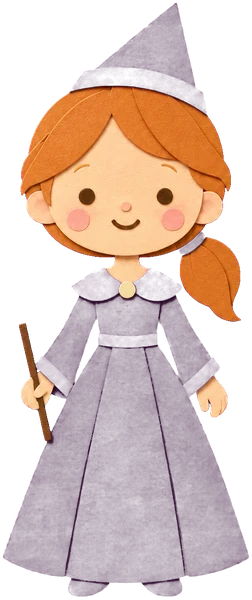
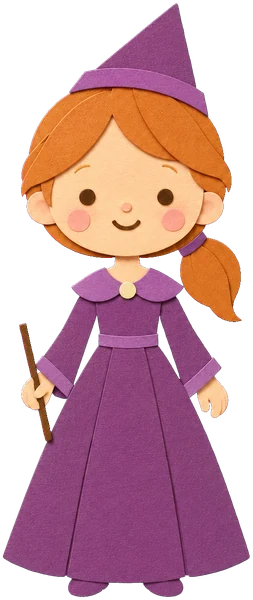
잠자는 숲속의 공주: 화려하게 다시 그리기 그림 끼우기(배경 v2 6장·백 년 뒤 v3·레이어 소품 13장) — 잔치 깃발 줄, 홀·예배당 샹들리에·촛대 깜빡임, 선물 뒤 여섯 색 별 아치, 성 밖 장미 덤불·가시 덩굴(덤불과 함께 자람), 9장 백 년 뒤 크로스페이드+가시 드레이프·버섯, 부엌 냄비 걸이·빵 바구니·거미줄, 깨어남 별 폭발+거미줄 걷힘; 식탁 윗선을 새 배경에 맞춤(홀 258·예배당 252). 보라 요정 그림이 반투명하던 것을 테두리 마젠타만 지워 다시 처리(post_flood --sat)
Claude-Session: https://claude.ai/code/session_015D7fGjm4nVvpfW8sbSdtTy

diff --git a/tales/sleeping_beauty/sleeping_beauty.js b/tales/sleeping_beauty/sleeping_beauty.js
@@ -16,6 +16,8 @@
     sb_grandpa_point: .70, sb_maid_stand: .44, sb_maid_sleep: .46, sb_guard_a_stand: .46, sb_guard_a_sleep: .46, sb_guard_b_stand: .46, sb_guard_b_sleep: .46, sb_cook_stand: .58, sb_cook_sleep: .58, sb_kid_stand: .46, sb_kid_sleep: .48,
     sb_dog_sleep: 1.6, sb_dog_wag: 1.35, sb_bird_sleep: 1.2,
     sb_prop_cradle: 1.25, sb_prop_plate: 2.6, sb_prop_door_closed: .52, sb_prop_door_open: .52, sb_prop_curtain: .75, sb_prop_wheel: 1.15, sb_prop_thread_short: .22, sb_prop_thread_mid: .13, sb_prop_thread_long: .09,
+    sb_layer_chandelier: .9733, sb_layer_flower_garland: 2.8302, sb_layer_bunting: 4.918, sb_layer_candle_stand: .4117, sb_layer_vase_roses: .8667, sb_layer_rose_bush: 1.8109, sb_layer_mushrooms: .89,
+    sb_layer_cobweb: 1.0317, sb_layer_pot_rack: 2.1077, sb_layer_bread_basket: 1.0633, sb_layer_wake_burst: .9967, sb_layer_thorn_vine: .3483, sb_layer_thorn_top: 2.267,
     sb_prop_bed: 1.45, sb_prop_candle_lit: .35, sb_prop_candle_out: .33, sb_prop_bush_closed: 1.75, sb_prop_bush_open: 1.75, sb_prop_tree_small: .9, sb_prop_tree_big: .8, sb_prop_table: 2.1, sb_prop_shelf: 3.0, sb_prop_bell: .8,
   };
   FC.forEach(c => { ASP[`sb_fairy_${c}_stand`] = .46; ASP[`sb_fairy_${c}_wand`] = .60; });
@@ -30,6 +32,9 @@
     sb_dog_sleep: 56, sb_dog_wag: 72, sb_bird_sleep: 28,
     sb_prop_cradle: 150, sb_prop_plate: 26, sb_prop_door_closed: 300, sb_prop_door_open: 300, sb_prop_curtain: 330, sb_prop_wheel: 150,
     sb_prop_thread_short: 70, sb_prop_thread_mid: 120, sb_prop_thread_long: 176, sb_prop_bed: 240, sb_prop_candle_lit: 90, sb_prop_candle_out: 90,
+    /* 레이어 소품(VISUAL_PLAN §5): 배경을 꾸미는 종이 조각. 누름을 받지 않는다 */
+    sb_layer_chandelier: 150, sb_layer_flower_garland: 70, sb_layer_bunting: 70, sb_layer_candle_stand: 260, sb_layer_vase_roses: 120, sb_layer_rose_bush: 130, sb_layer_mushrooms: 60,
+    sb_layer_cobweb: 120, sb_layer_pot_rack: 110, sb_layer_bread_basket: 90, sb_layer_wake_burst: 300, sb_layer_thorn_vine: 320, sb_layer_thorn_top: 90,
     sb_prop_bush_closed: 300, sb_prop_bush_open: 300, sb_prop_tree_small: 110, sb_prop_tree_big: 300, sb_prop_table: 110, sb_prop_shelf: 60, sb_prop_bell: 70,
   };
   FC.forEach(c => { HT[`sb_fairy_${c}_stand`] = 205; HT[`sb_fairy_${c}_wand`] = 215; });
@@ -37,10 +42,10 @@
   /* 그림이 보는 쪽(SPEC §2-3) — 앞모습은 'front'(뒤집지 않음) */
   const NAT = { sb_pr_climb: 'right', sb_pr_reach: 'right', sb_pr_lie: 'left', sb_young_peek: 'left', sb_old_stand: 'left', sb_old_sulk: 'left',
     sb_granny_spin: 'left', sb_granny_startle: 'left', sb_grandpa_point: 'right', sb_prince_tiptoe: 'right', sb_prince_kneel: 'left',
-    sb_dog_sleep: 'left', sb_dog_wag: 'left', sb_bird_sleep: 'left' };
+    sb_dog_sleep: 'left', sb_dog_wag: 'left', sb_bird_sleep: 'left', sb_layer_cobweb: 'left' };
   const FL = 528;                       // 바닥(발끝 y)
-  const TABLE_Y = 207;                  // 2·3·11장 식탁 윗선(배경 그림 38% 높이). 그림이 오면 ±10 맞춘다
-  const BGS = ['sb_bg_room', 'sb_bg_hall', 'sb_bg_stairs', 'sb_bg_tower', 'sb_bg_bedroom', 'sb_bg_outside', 'sb_bg_kitchen', 'sb_bg_chapel'];
+  let TABLE_Y = 207;                    // 2·3·11장 식탁 윗선. 배경마다 잰 값으로 dress() 가 바꾼다(hall_v2 260, chapel_v2 254 — 접시는 띠 윗선에 얹힌다)
+  const BGS = ['sb_bg_room_v2', 'sb_bg_hall_v2', 'sb_bg_stairs', 'sb_bg_tower', 'sb_bg_bedroom_v2', 'sb_bg_outside_v2', 'sb_bg_kitchen_v2', 'sb_bg_chapel_v2', 'sb_bg_outside_v3'];   // outside_v3: 9장 백 년 뒤 크로스페이드(같은 구도)
   const src = k => AS + k + '.webp';    // 배경·스프라이트 모두 파일 이름 전체(sb_…)로 부른다
   const BGBOX = { x: -40, y: -24, w: 1080, h: 1080 * 992 / 1760 };
   const hOf = f => HT[f] || 200;
@@ -171,14 +176,14 @@
 
   /* 배경 자리표시: 종이 한 장 + 요소 2~3개 + 장면 이름표 */
   const BGPH = {
-    sb_bg_room:    { sky: CREAM, gnd: GOLD, name: '아기 방', shapes: () => [['path', { d: 'M120 330 V190 A70 70 0 0 1 260 190 V330Z', fill: '#B9D3E4' }], ['rect', { x: 780, y: 20, width: 90, height: 190, fill: '#A93B32' }]] },
-    sb_bg_hall:    { sky: CREAM, gnd: BARK, name: '잔치 홀', shapes: () => [['rect', { x: -40, y: 207, width: 1080, height: 55, fill: BARK }], ['rect', { x: -40, y: 207, width: 1080, height: 10, fill: GOLD }]] },
+    sb_bg_room_v2: { sky: CREAM, gnd: GOLD, name: '아기 방', shapes: () => [['path', { d: 'M120 330 V190 A70 70 0 0 1 260 190 V330Z', fill: '#B9D3E4' }], ['rect', { x: 780, y: 20, width: 90, height: 190, fill: '#A93B32' }]] },
+    sb_bg_hall_v2: { sky: CREAM, gnd: BARK, name: '잔치 홀', shapes: () => [['rect', { x: -40, y: 207, width: 1080, height: 55, fill: BARK }], ['rect', { x: -40, y: 207, width: 1080, height: 10, fill: GOLD }]] },
     sb_bg_stairs:  { sky: '#B8AFA3', gnd: '#8f877c', name: '탑 계단', shapes: () => [0, 1, 2, 3, 4, 5, 6, 7, 8].map(i => ['rect', { x: 200 + i * 80, y: 470 - i * 48, width: 90, height: 24, fill: '#6f675d' }]) },
     sb_bg_tower:   { sky: '#B8AFA3', gnd: GOLD, name: '탑 꼭대기 방', shapes: () => [['path', { d: 'M440 300 V150 A60 60 0 0 1 560 150 V300Z', fill: '#B9D3E4' }]] },
-    sb_bg_bedroom: { sky: CREAM, gnd: GOLD, name: '공주 침실', shapes: () => [['path', { d: 'M780 330 V190 A70 70 0 0 1 920 190 V330Z', fill: '#B9D3E4' }]] },
-    sb_bg_outside: { sky: '#EEF3F7', gnd: '#9DBB7A', name: '성 밖 (덤불 자리 비움)', shapes: () => [['ellipse', { cx: 250, cy: 430, rx: 340, ry: 130, fill: '#3F6B4F' }], ['ellipse', { cx: 800, cy: 450, rx: 320, ry: 130, fill: '#3F6B4F' }], ['rect', { x: 440, y: 170, width: 120, height: 200, fill: CREAM }], ['rect', { x: 400, y: 120, width: 40, height: 250, fill: CREAM }], ['rect', { x: 560, y: 120, width: 40, height: 250, fill: CREAM }], ['rect', { x: 380, y: 480, width: 240, height: 120, fill: '#D9C79C' }]] },
-    sb_bg_kitchen: { sky: CREAM, gnd: '#B8AFA3', name: '부엌', shapes: () => [['path', { d: 'M60 420 V220 A110 110 0 0 1 280 220 V420Z', fill: BARK }], ['ellipse', { cx: 170, cy: 370, rx: 60, ry: 36, fill: '#E8703A' }]] },
-    sb_bg_chapel:  { sky: CREAM, gnd: '#B8AFA3', name: '예배당', shapes: () => [['path', { d: 'M420 120 V60 A80 80 0 0 1 580 60 V120Z', fill: '#B9D3E4' }], ['rect', { x: 440, y: 20, width: 28, height: 90, fill: '#A93B32' }], ['rect', { x: 468, y: 20, width: 28, height: 90, fill: GOLD }], ['rect', { x: 496, y: 20, width: 28, height: 90, fill: '#3F6B4F' }], ['rect', { x: 524, y: 20, width: 28, height: 90, fill: '#3E7CB1' }], ['rect', { x: -40, y: 207, width: 1080, height: 55, fill: BARK }], ['rect', { x: -40, y: 207, width: 1080, height: 10, fill: GOLD }]] },
+    sb_bg_bedroom_v2: { sky: CREAM, gnd: GOLD, name: '공주 침실', shapes: () => [['path', { d: 'M780 330 V190 A70 70 0 0 1 920 190 V330Z', fill: '#B9D3E4' }]] },
+    sb_bg_outside_v2: { sky: '#EEF3F7', gnd: '#9DBB7A', name: '성 밖 (덤불 자리 비움)', shapes: () => [['ellipse', { cx: 250, cy: 430, rx: 340, ry: 130, fill: '#3F6B4F' }], ['ellipse', { cx: 800, cy: 450, rx: 320, ry: 130, fill: '#3F6B4F' }], ['rect', { x: 440, y: 170, width: 120, height: 200, fill: CREAM }], ['rect', { x: 400, y: 120, width: 40, height: 250, fill: CREAM }], ['rect', { x: 560, y: 120, width: 40, height: 250, fill: CREAM }], ['rect', { x: 380, y: 480, width: 240, height: 120, fill: '#D9C79C' }]] },
+    sb_bg_kitchen_v2: { sky: CREAM, gnd: '#B8AFA3', name: '부엌', shapes: () => [['path', { d: 'M60 420 V220 A110 110 0 0 1 280 220 V420Z', fill: BARK }], ['ellipse', { cx: 170, cy: 370, rx: 60, ry: 36, fill: '#E8703A' }]] },
+    sb_bg_chapel_v2: { sky: CREAM, gnd: '#B8AFA3', name: '예배당', shapes: () => [['path', { d: 'M420 120 V60 A80 80 0 0 1 580 60 V120Z', fill: '#B9D3E4' }], ['rect', { x: 440, y: 20, width: 28, height: 90, fill: '#A93B32' }], ['rect', { x: 468, y: 20, width: 28, height: 90, fill: GOLD }], ['rect', { x: 496, y: 20, width: 28, height: 90, fill: '#3F6B4F' }], ['rect', { x: 524, y: 20, width: 28, height: 90, fill: '#3E7CB1' }], ['rect', { x: -40, y: 207, width: 1080, height: 55, fill: BARK }], ['rect', { x: -40, y: 207, width: 1080, height: 10, fill: GOLD }]] },
   };
   function bgImage(T, key) {
     if (bgOK[key]) return T.el('image', { href: src(key), x: BGBOX.x, y: BGBOX.y, width: BGBOX.w, height: BGBOX.h, preserveAspectRatio: 'none' }, T.bg);
@@ -306,7 +311,7 @@
     const GAP = 700, SCENE_END = 1500,   /* 2026-10-22 대사 뒤·장면 끝 쉼을 줄임(전환이 느리다는 지적) */ WALK = 3000;
     const say = async text => { await T.say(text); await sleep(GAP); };
     const vo = k => { const u = Narrator.voiceLine(k); return u && AudioFX.voice(u); };   // 말풍선 없는 소리(count1~7)
-    const scene = key => { T.clear(); bgImage(T, key); camSnap(500, 280, 1); };
+    const scene = key => { setBg(key); camSnap(500, 280, 1); };
     const P = T.viewWidth() < 990;                 // 세로 화면
     const X = (l, p) => (P ? p : l);
     const follow = (x, ms = 700) => (P ? T.camTo(x, 280, 1, ms) : Promise.resolve());
@@ -421,14 +426,38 @@
     const tree   = mk(T, { small: h('sb_prop_tree_small'), big: h('sb_prop_tree_big') });
     const table  = prop(T, 'sb_prop_table', HT.sb_prop_table), shelf = prop(T, 'sb_prop_shelf', HT.sb_prop_shelf), bell = prop(T, 'sb_prop_bell', HT.sb_prop_bell);
     const ALL = [pr, baby, king, queen, ...fairies, young, old, granny, prince, grandpa, maid, guardA, guardB, cook, kid, dog, bird, cradle, ...plates, door, curtain, ...gifts, wheel, ...Object.values(threads), bed, candle, bush, tree, table, shelf, bell];
+    /* 레이어 소품(VISUAL_PLAN §4): 중간 층은 world 맨 뒤(배우보다 먼저), 앞 가림 층은 fx(배우 위). 모두 누름 없음 */
+    const L = Object.fromEntries(['chandelier', 'chandelier2', 'bunting', 'bunting2', 'candle_stand', 'candle_stand2', 'vase_roses', 'rose_bush', 'rose_bush2', 'mushrooms', 'cobweb', 'cobweb2', 'pot_rack', 'bread_basket', 'wake_burst', 'thorn_vine', 'thorn_top', 'thorn_top2']
+      .map(k => [k, prop(T, 'sb_layer_' + k.replace(/2$/, ''), HT['sb_layer_' + k.replace(/2$/, '')])]));
+    ALL.push(...Object.values(L));
     ALL.forEach(hide);
+    const mid = (a, x, y, o) => { put(T, a, x, y, o); T.world.insertBefore(a.pos, T.world.firstChild); return a; };
+    const front = (a, x, y, o) => { put(T, a, x, y, o); T.fx.appendChild(a.pos); return a; };
+    const flicker = a => { a.body.animate([{ opacity: 1 }, { opacity: .85 }, { opacity: 1 }], { duration: 1600, iterations: Infinity }); return a; };
+    const sway = a => { a.body.animate([{ rotate: '-1.5deg' }, { rotate: '1.5deg' }, { rotate: '-1.5deg' }], { duration: 4000, iterations: Infinity, easing: 'ease-in-out' }); return a; };
+    function dress(key) {
+      if (key === 'sb_bg_room_v2') mid(L.vase_roses, X(880, 880), FL);
+      if (key === 'sb_bg_hall_v2') TABLE_Y = 258;
+      if (key === 'sb_bg_chapel_v2') TABLE_Y = 252;
+      if (key === 'sb_bg_hall_v2') { flicker(mid(L.chandelier, X(300, 380), 150)); flicker(mid(L.chandelier2, X(700, 620), 150)); }
+      if (key === 'sb_bg_outside_v2') { mid(L.rose_bush, X(120, 330), FL - 10); front(L.thorn_vine, X(40, 300), 585); }
+      if (key === 'sb_bg_kitchen_v2') {
+        mid(L.pot_rack, X(500, 250), 120);
+        front(L.bread_basket, X(985, 985), 585); front(L.cobweb, 30, 110); front(L.cobweb2, 970, 110, { to: 'right' });
+      }
+      if (key === 'sb_bg_chapel_v2') {
+        flicker(mid(L.chandelier, X(250, 330), 150)); flicker(mid(L.chandelier2, X(750, 670), 150));
+        flicker(mid(L.candle_stand, X(60, 330), FL)); flicker(mid(L.candle_stand2, X(940, 670), FL));
+      }
+    }
+    const setBg = key => { T.clear(); bgImage(T, key); dress(key); };
     T.director({ cast: { king, queen, princess: pr, fred: fairies[0], forange: fairies[1], fyellow: fairies[2], fgreen: fairies[3], fblue: fairies[4], fpurple: fairies[5], young, old, granny, prince, grandpa },
                  noFace: ['king', 'queen', 'princess', 'fred', 'forange', 'fyellow', 'fgreen', 'fblue', 'fpurple', 'young', 'old', 'granny', 'prince', 'grandpa'] });
     const PEEK_DX = -(curtain.w / 2 + 25);
     const hasFace = a => a;   // (자리 맞추기용 훅 — 지금은 쓰지 않음)
 
     /* ===== 1. 기다리던 아기 (톡 1: 요람) ===== */
-    scene('sb_bg_room');
+    scene('sb_bg_room_v2');
     put(T, king, X(360, 395), FL, { look: 'joy' });
     put(T, queen, X(640, 605), FL, { look: 'joy' });
     put(T, cradle, 500, FL + 4);
@@ -438,7 +467,9 @@
     await T.curtain(true);
     await say(S.L1);
     await sleep(300);
-    const l2 = say(S.L2); king.hop(8, 300); await l2;
+    const l2 = say(S.L2); king.hop(8, 300);
+    [[L.bunting, X(250, 420)], [L.bunting2, X(750, 600)]].forEach(([g, x]) => { front(g, x, 70); sway(g); g.pos.animate([{ opacity: 0, translate: '0 -40px' }, { opacity: 1, translate: '0 0' }], 600); });
+    await l2;
     bob(cradle.pos);
     await T.tap(cradleHit);
     cradleHit.remove();
@@ -453,7 +484,7 @@
     /* ===== 2. 접시 일곱, 요정 여덟 (배움 놀이 1: 많고 적음) ===== */
     const doorX = X(970, SX(7) + 160 * RS - 60);
     await T.sceneCard(tr('접시 일곱, 요정 여덟'), () => {
-      scene('sb_bg_hall');
+      scene('sb_bg_hall_v2');
       for (let i = 0; i < 7; i++) put(T, plates[i], SX(i), TABLE_Y + 2, { s: RS });
       for (let i = 0; i < 6; i++) put(T, fairies[i], SX(i), FL, { look: 'stand', s: RS });
       put(T, young, SX(6), FL, { look: 'stand', s: RS });
@@ -461,7 +492,7 @@
       if (P) camSnap(500, 280, 1);
     }, young.pos);
     await say(S.L4);
-    door.look('open'); sfx(T, 'door', .5);
+    door.look('open'); sfx(T, 'door', .5); L.chandelier2.wiggle(2, 600);
     put(T, old, X(1080, doorX + 20), FL, { look: 'stand', to: 'left', s: RS });
     const entering = walk(T, old, SX(7), FL, WALK, { h: 3 * RS, hd: 560 });
     await Promise.all([entering, say(S.L5)]);
@@ -497,14 +528,14 @@
     rowPlates.remove(); rowFairies.remove();
     const l6 = say(S.L6);
     glow(old, 2000);
-    [...plates.slice(0, 7), ...fairies, young].forEach(a => { a.pos.style.transition = 'opacity .4s'; a.pos.style.opacity = .45; });
+    [...plates.slice(0, 7), ...fairies, young, L.chandelier, L.chandelier2].forEach(a => { a.pos.style.transition = 'opacity .4s'; a.pos.style.opacity = .45; });
     await l6;
-    [...plates.slice(0, 7), ...fairies, young].forEach(a => { a.pos.style.transition = ''; a.pos.style.opacity = ''; });
+    [...plates.slice(0, 7), ...fairies, young, L.chandelier, L.chandelier2].forEach(a => { a.pos.style.transition = ''; a.pos.style.opacity = ''; });
     await sleep(SCENE_END);
 
     /* ===== 3. 잊힌 요정 ===== */
     await T.sceneCard(tr('잊힌 요정'), () => {
-      scene('sb_bg_hall');
+      scene('sb_bg_hall_v2');
       for (let i = 0; i < 7; i++) put(T, plates[i], SLOT(i), TABLE_Y + 2);
       put(T, queen, X(300, 430), FL, { look: 'surprise', to: 'right' });
       put(T, king, X(420, 510), FL, { look: 'surprise', to: 'right' });
@@ -526,7 +557,7 @@
 
     /* ===== 4. 여섯 가지 선물 ===== */
     await T.sceneCard(tr('여섯 가지 선물'), () => {
-      scene('sb_bg_room');
+      scene('sb_bg_room_v2');
       put(T, cradle, 500, FL + 4);
       put(T, baby, cradle.x + CRADLE_BABY[0], cradle.y + CRADLE_BABY[1], { look: 'sleep' });
       put(T, king, X(720, 660), FL, { look: 'joy' });
@@ -548,12 +579,17 @@
       f.look('stand');
       await f.move(X(50 + 70 * i, -200), FL, 900, 'ease-out');
     }
+    for (let i = 0; i < 6; i++) {      // 여섯 색 별 아치(요람 위, 천천히 깜빡)
+      const t = i / 5, x = 380 + 240 * t, y = 230 - 40 * Math.sin(Math.PI * t), r = 11;
+      const st = T.el('path', { d: `M0 ${-r} L${r * .3} ${-r * .3} L${r} 0 L${r * .3} ${r * .3} L0 ${r} L${-r * .3} ${r * .3} L${-r} 0 L${-r * .3} ${-r * .3} Z`, fill: COLOR[i], transform: `translate(${x},${y})`, filter: 'url(#pp)' }, T.fx);
+      st.animate([{ opacity: 0 }, { opacity: 1 }], { duration: 400, delay: i * 120, fill: 'backwards' }).finished.then(() => st.animate([{ opacity: 1 }, { opacity: .45 }, { opacity: 1 }], { duration: 1800, iterations: Infinity }), () => {});
+    }
     const l17 = say(S.L17); baby.hop(3, 500); await sleep(550); baby.hop(3, 500); await l17;
     await sleep(SCENE_END);
 
     /* ===== 5. 백 년 잠 ===== */
     await T.sceneCard(tr('백 년 잠'), () => {
-      scene('sb_bg_room');
+      scene('sb_bg_room_v2');
       put(T, wheel, X(150, 330), FL);
       put(T, cradle, 500, FL + 4);
       put(T, baby, cradle.x + CRADLE_BABY[0], cradle.y + CRADLE_BABY[1], { look: 'sleep' });
@@ -600,7 +636,7 @@
     const TY = FL - 150;
     const order = ['short', 'mid', 'long'].sort(() => Math.random() - .5);
     const towerSet = () => {
-      T.clear(); bgImage(T, 'sb_bg_tower'); camSnap(X(500, 520), 280, 1);
+      setBg('sb_bg_tower'); camSnap(X(500, 520), 280, 1);
       put(T, granny, X(640, 640), FL, { look: 'spin', to: 'left' });
       put(T, wheel, X(540, 540), FL);
       const TX = [wheel.x - 52, wheel.x, wheel.x + 52];
@@ -653,7 +689,7 @@
     await Promise.all([walk(T, king, X(240, 420), FL, 1400, { h: 6, hd: 320, vol: .35 }), walk(T, queen, X(140, 330), FL, 1400, { h: 6, hd: 320, snd: null })]);
     await sleep(300);
     await veil(T, () => {
-      T.clear(); bgImage(T, 'sb_bg_bedroom'); camSnap(500, 280, 1);
+      setBg('sb_bg_bedroom_v2'); camSnap(500, 280, 1);
       put(T, candle, X(240, 380), FL, { look: 'lit' });
       put(T, bed, 500, FL + 6);
       put(T, pr, bed.x - 8, bed.y + BED_TOP, { look: 'lie', to: 'left' });
@@ -667,7 +703,7 @@
     /* ===== 8. 모두 잠들어요 ===== */
     const sleepers = [[dog, X(590, 560), 'wag'], [maid, X(720, 640), 'stand'], [guardA, X(790, 720), 'stand'], [cook, X(860, 800), 'stand'], [kid, X(920, 870), 'stand'], [guardB, X(980, 940), 'stand']];
     await T.sceneCard(tr('모두 잠들어요'), () => {
-      scene('sb_bg_bedroom');
+      scene('sb_bg_bedroom_v2');
       put(T, candle, X(240, 380), FL, { look: 'lit' });
       put(T, bed, 500, FL + 6);
       put(T, pr, bed.x - 8, bed.y + BED_TOP, { look: 'lie', to: 'left' });
@@ -689,11 +725,13 @@
     const night8 = tint(T, '#1F2A56', 0); T.anim(night8, [{ opacity: 0 }, { opacity: .22 }], 1200);
     await sleep(1800);
     await veil(T, () => {
-      T.clear(); bgImage(T, 'sb_bg_outside'); camSnap(X(500, 600), 280, 1);
+      setBg('sb_bg_outside_v2'); camSnap(X(500, 600), 280, 1);
       put(T, tree, X(880, 860), FL, { look: 'small' });
       put(T, bush, X(700, 700), FL, { look: 'closed' });
     });
     const grow = bush.body.animate([{ transform: 'scale(.12)' }, { transform: 'scale(1)' }], { duration: 2400, easing: 'ease-out', fill: 'forwards' });
+    L.thorn_vine.body.style.transformBox = 'fill-box'; L.thorn_vine.body.style.transformOrigin = '50% 100%';
+    L.thorn_vine.body.animate([{ transform: 'scale(.3)' }, { transform: 'scale(1)' }], { duration: 2400, easing: 'ease-out' });
     sfx(T, 'whoosh', .35); T.pop(700, FL - 345, tr('스르륵'), '#3F6B4F');
     await grow.finished.catch(() => {}); grow.cancel(); bush.body.style.transform = '';
     await l31;
@@ -701,14 +739,20 @@
 
     /* ===== 9. 백 년 뒤 (톡 2: 가시덤불) ===== */
     await T.sceneCard(tr('백 년 뒤'), () => {
-      scene('sb_bg_outside');
+      scene('sb_bg_outside_v2');
       put(T, tree, X(880, 860), FL, { look: 'small' });
       put(T, bush, 700, FL, { look: 'closed' });
       camSnap(X(500, 600), 280, 1);
     }, bush.pos);
     const bushHit = hitRect(T, 700 - 270, FL - 320, 540, 320);
     const l32 = say(S.L32);
-    const sm = sunMoon(T, () => { tree.look('big'); tree.hop(6, 400); sfx(T, 'pop', .3); });
+    const sm = sunMoon(T, () => {
+      tree.look('big'); tree.hop(6, 400); sfx(T, 'pop', .3);
+      const v3 = bgImage(T, 'sb_bg_outside_v3'); v3.animate([{ opacity: 0 }, { opacity: 1 }], { duration: 2400, fill: 'backwards' });   // 백 년 뒤: 같은 구도의 무성한 숲으로
+      const come = [mid(L.rose_bush2, X(1000, 790), FL - 10), front(L.mushrooms, X(60, 330), 585)];
+      if (!P) come.push(front(L.thorn_top, 120, 90), front(L.thorn_top2, 880, 90, { to: 'right' }));
+      come.forEach(a => a.pos.animate([{ opacity: 0 }, { opacity: 1 }], { duration: 2400 }));
+    });
     await Promise.all([l32, sm]);
     put(T, grandpa, X(-100, 280), FL, { look: 'point', to: 'right' });
     const gp = walk(T, grandpa, X(220, 390), FL, WALK, { h: 3, hd: 560, snd: 'step_grass' });
@@ -725,6 +769,7 @@
     bushHit.remove();
     await bush.wiggle(2, 500);
     bush.look('open'); sfx(T, 'swish', .45); T.pop(700, FL - 345, tr('스르륵'), '#3F6B4F');
+    if (!P) [L.thorn_top, L.thorn_top2].forEach(a => a.wiggle(3, 700));
     const l35 = say(S.L35);
     prince.look('tiptoe', 'right');
     T.world.insertBefore(prince.pos, bush.pos);
@@ -735,7 +780,7 @@
 
     /* ===== 10. 잠든 궁전 (배움 놀이 3: 위·아래·옆) ===== */
     await T.sceneCard(tr('잠든 궁전'), () => {
-      scene('sb_bg_kitchen');
+      scene('sb_bg_kitchen_v2');
       put(T, shelf, X(760, 470), 150);
       put(T, bird, shelf.x + 45, shelf.y - 52, { to: 'left' });
       put(T, table, X(300, 430), FL);
@@ -747,6 +792,7 @@
       camSnap(X(500, 540), 280, 1);
     }, cook.pos);
     hitBox(T, bird, 90, 90); hitBox(T, dog, 120, 100); hitBox(T, kid, 110, 210); hitBox(T, guardB, 120, 230);
+    L.pot_rack.wiggle(2, 800);
     await walk(T, prince, X(150, 395), FL, 2000, { h: 4, hd: 420, snd: 'step_wood', vol: .2 });
     const l36 = say(S.L36); T.pop(prince.x, FL - 295, tr('쉿'), '#1F2A56'); await l36;
     await say(S.L37);
@@ -764,7 +810,7 @@
 
     /* ===== 11. 깨어나요 (톡 3: 인사) ===== */
     await T.sceneCard(tr('깨어나요'), () => {
-      scene('sb_bg_bedroom');
+      scene('sb_bg_bedroom_v2');
       put(T, candle, X(240, 380), FL, { look: 'lit' });
       put(T, bed, 500, FL + 6);
       put(T, pr, bed.x - 8, bed.y + BED_TOP, { look: 'lie', to: 'left' });
@@ -772,11 +818,15 @@
       put(T, maid, X(120, 330), FL, { look: 'sleep' });
       put(T, cook, X(860, 720), FL, { look: 'sleep' });
       put(T, kid, X(940, 800), FL, { look: 'sleep' });
+      front(L.cobweb, 30, 110); front(L.cobweb2, 970, 110, { to: 'right' });   // 백 년의 잠(깨어날 때 걷힌다)
       camSnap(X(500, 540), 280, 1);
     }, pr.pos);
     const l38 = say(S.L38);
     await sleep(1200);
     twinkle(T, bed.x, bed.y + BED_TOP - 60, '#F2B366', 6, 60); sparkleSfx(T);
+    { const b = front(L.wake_burst, bed.x, bed.y + BED_TOP - 60 + HT.sb_layer_wake_burst / 2); b.body.style.transformBox = 'fill-box'; b.body.style.transformOrigin = '50% 50%';
+      b.body.animate([{ transform: 'scale(.2)', opacity: 1 }, { transform: 'scale(1.4)', opacity: 1, offset: .7 }, { transform: 'scale(1.4)', opacity: 0 }], { duration: 700, easing: 'ease-out' }).finished.then(() => hide(b), () => hide(b));
+      [L.cobweb, L.cobweb2].forEach(c => fadeOut(T, c, 900)); }
     pr.look('wake'); pr.place(bed.x - 20, bed.y + BED_TOP + 8); pr.hop(5, 400);
     await l38;
     await say(S.L39);
@@ -787,7 +837,7 @@
     await l41;
     await sleep(300);
     await veil(T, () => {
-      T.clear(); bgImage(T, 'sb_bg_chapel'); camSnap(500, 280, 1);
+      setBg('sb_bg_chapel_v2'); camSnap(500, 280, 1);
       for (let i = 0; i < 8; i++) put(T, plates[i], SX(i), TABLE_Y + 2, { s: RS });
       for (let i = 0; i < 6; i++) put(T, fairies[i], SX(i), FL - 70, { look: 'stand', s: RS });
       put(T, young, SX(6), FL - 70, { look: 'stand', s: RS });

diff --git a/tools/app/gen/post_flood.py b/tools/app/gen/post_flood.py
@@ -1,6 +1,6 @@
 #!/usr/bin/env python3
 """공주 v2 그림 후처리: 테두리와 이어진 마젠타만 지운다(보라·라벤더 조각 보호).
-  ~/.venvs/paper-tale/bin/python tools/app/gen/post_flood.py <tale> <id> [id ...]
+  ~/.venvs/paper-tale/bin/python tools/app/gen/post_flood.py <tale> <id> [id ...] [--sat=.55]
 - 원본: assets/raw/restyle/<tale>/<id>.png → assets/v3w/<id>.webp
 - 배경(id 에 _bg_): 16:9 가운데 자르기 → 1600×902 (post_tale.py 와 같음)
 - 그림: 마젠타 색상(283~338°)·채도 > .55 덩어리 중 테두리와 이어진 것 + 평균 채도 > .62 인 속 구멍만 배경.
@@ -11,7 +11,9 @@ import numpy as np
 from PIL import Image
 from scipy import ndimage
 G = os.path.abspath(os.path.join(os.path.dirname(__file__), '..', '..', '..'))
-tale = sys.argv[1]; ids = sys.argv[2:]
+args = [a for a in sys.argv[1:] if not a.startswith('--')]
+SAT = float(next((a.split('=')[1] for a in sys.argv if a.startswith('--sat=')), .55))   # 보라 옷처럼 채도 높은 보라 조각이 있으면 --sat=.7
+tale = args[0]; ids = args[1:]
 V3W = os.path.join(G, 'assets', 'v3w')
 
 def key(src):
@@ -21,7 +23,7 @@ def key(src):
     hsv = np.asarray(im0.convert('HSV')).astype(float)
     hue, sat, val = hsv[..., 0] * 360 / 255, hsv[..., 1] / 255, hsv[..., 2]
     mag = (hue > 283) & (hue < 338)                  # 마젠타 색상 띠(그늘진 바탕은 붉은 쪽으로 기운다)
-    core = mag & (sat > 0.55) & (val > 40)           # 보라·라벤더 색지는 채도 ≤ .5 라 여기 안 든다
+    core = mag & (sat > SAT) & (val > 40)           # 보라·라벤더 색지는 채도 ≤ .5 라 여기 안 든다
     lab, n = ndimage.label(core)
     edge = set(np.unique(np.concatenate([lab[0], lab[-1], lab[:, 0], lab[:, -1]]))) - {0}
     keep = np.zeros(n + 1, bool)
@@ -29,12 +31,12 @@ def key(src):
     if n:   # 테두리와 안 이어진 속 구멍(풀잎 사이 등)은 아주 진한 마젠타 덩어리일 때만
         idx = np.arange(1, n + 1)
         mean = ndimage.mean(sat, lab, index=idx); size = ndimage.sum(np.ones_like(sat), lab, index=idx)
-        keep[1:] |= (mean > 0.62) & (size >= 8)
+        keep[1:] |= (mean > SAT + .07) & (size >= 8)
     bg = keep[lab]
     near = ndimage.binary_dilation(bg, iterations=2) & ~bg & (hue > 270) & (hue < 345) & (sat > 0.3)
     alpha = np.full(sat.shape, 255.0)
     alpha[bg] = 0
-    alpha[near] = np.clip((0.55 - sat[near]) * 255 / 0.25, 0, 255)
+    alpha[near] = np.clip((SAT - sat[near]) * 255 / 0.25, 0, 255)
     out = a.copy()
     sp = near | (ndimage.binary_dilation(bg, iterations=1) & ~bg)
     out[..., 0] = np.where(sp & (r > g + 30), np.minimum(r, g + 30), r)
